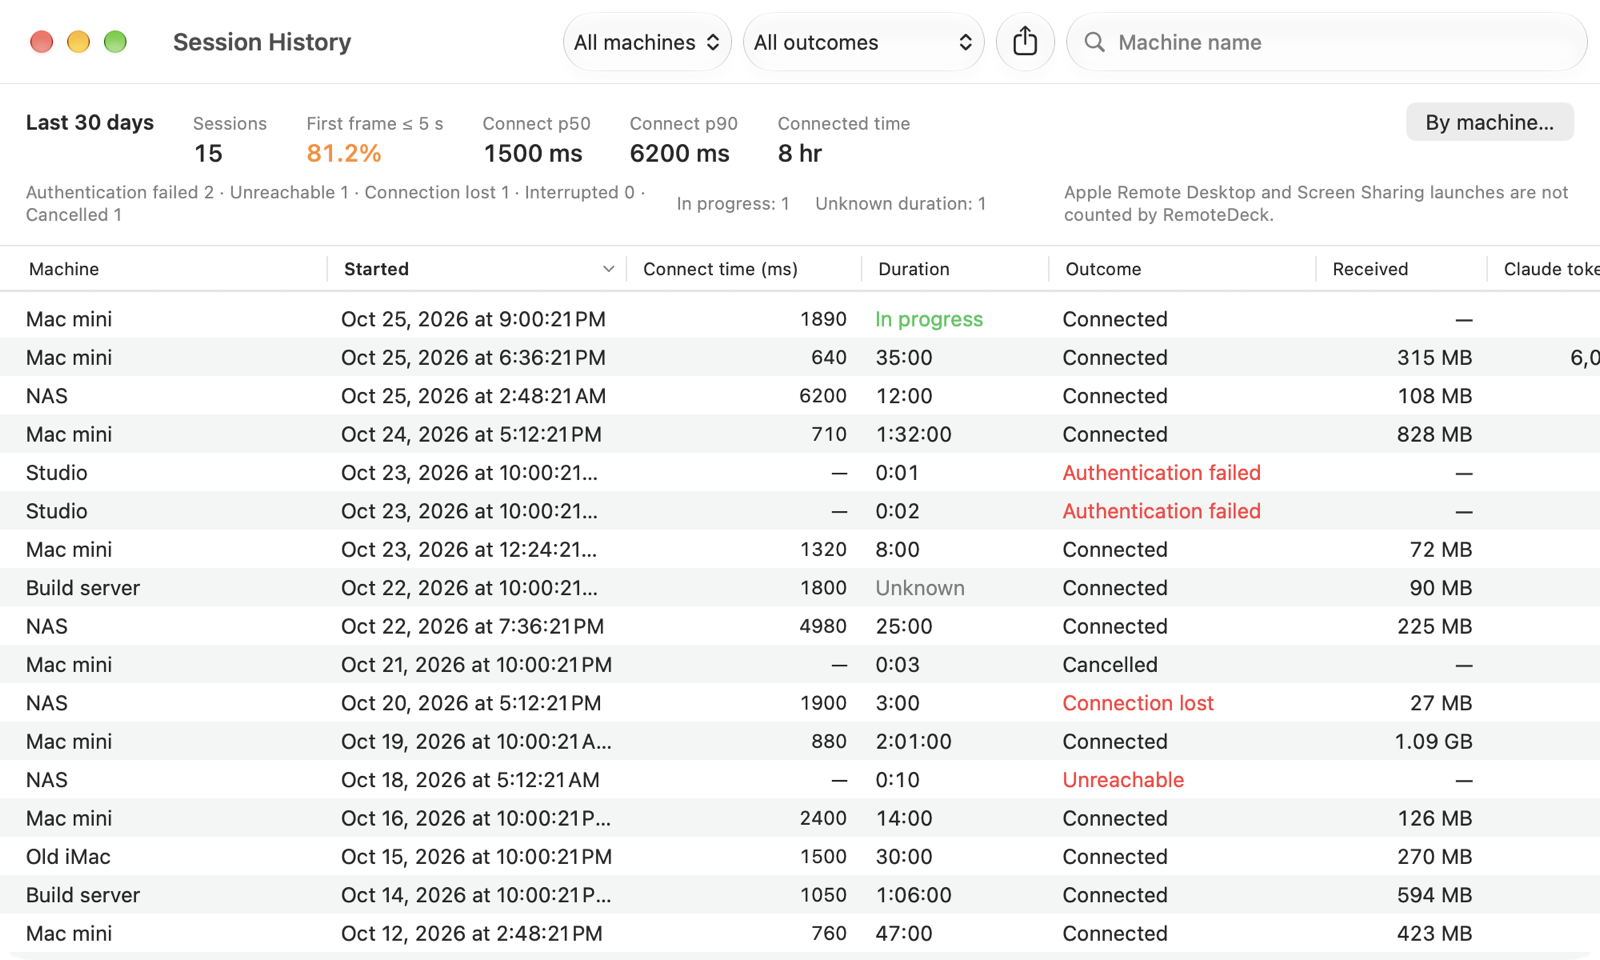
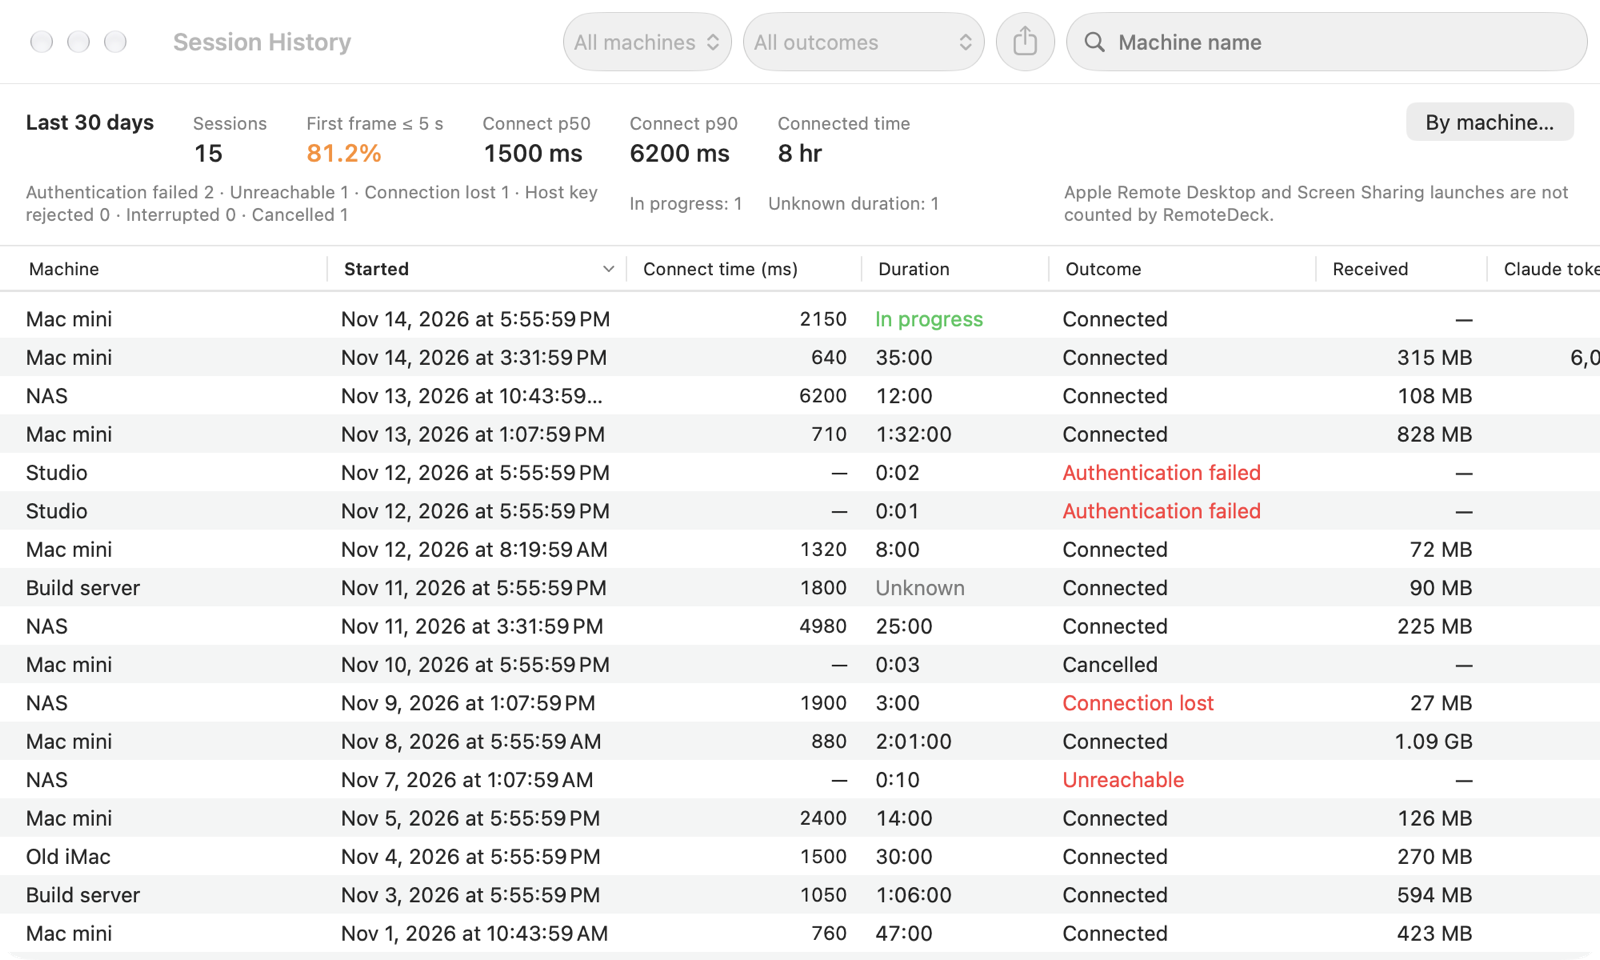
docs: refresh screenshots and describe SSH terminals on the landing page (#44)
New Terminal Assistant capture, Machine Library with an SSH machine, Session History with current dates; README and landing text cover terminal sessions and both assistant models.

diff --git a/docs/index.html b/docs/index.html
@@ -141,7 +141,7 @@
     <div>
       <span class="pill">🖥 <span class="en"><b>Macs</b>, <b>VNC</b>, <b>Claude computer use</b> and <b>SSH</b></span><span class="fr"><b>Mac</b>, <b>VNC</b>, <b>Claude computer use</b> et <b>SSH</b></span></span>
       <h1><span class="en">Every remote screen,<br><span class="grad">one native Mac app.</span></span><span class="fr">Tous vos écrans distants,<br><span class="grad">une seule app Mac native.</span></span></h1>
-      <p class="sub"><span class="en">RemoteDeck opens screen sessions on your Macs (Apple Remote Desktop / Screen Sharing), on VNC desktops and on Anthropic computer use environments — from one Machine Library, in tabs, with your passwords in the Keychain.</span><span class="fr">RemoteDeck ouvre des sessions d'écran sur vos Mac (Apple Remote Desktop / Partage d'écran), sur des bureaux VNC et sur les environnements Anthropic computer use — depuis une seule bibliothèque de machines, en onglets, avec vos mots de passe dans le Trousseau.</span></p>
+      <p class="sub"><span class="en">RemoteDeck opens screen sessions on your Macs (Apple Remote Desktop / Screen Sharing), on VNC desktops and on Anthropic computer use environments, and terminal sessions on your SSH machines — from one Machine Library, in tabs, with your passwords in the Keychain.</span><span class="fr">RemoteDeck ouvre des sessions d'écran sur vos Mac (Apple Remote Desktop / Partage d'écran), sur des bureaux VNC et sur les environnements Anthropic computer use, et des sessions terminal sur vos machines SSH — depuis une seule bibliothèque de machines, en onglets, avec vos mots de passe dans le Trousseau.</span></p>
       <div class="cta">
         <a class="btn btn-primary" href="https://github.com/vincentlauriat/RemoteDeck/releases/latest"><span class="en">Download</span><span class="fr">Télécharger</span></a>
         <a class="btn btn-ghost" href="https://github.com/vincentlauriat/RemoteDeck"><span class="en">View on GitHub</span><span class="fr">Voir sur GitHub</span></a>
@@ -198,13 +198,14 @@
     <h2><span class="en">A closer look</span><span class="fr">De plus près</span></h2>
   </div>
   <div class="gallery">
+    <figure><img src="assets/terminal-assistant.png" width="1600" height="1000" loading="lazy" alt="An SSH terminal tab on a demo Raspberry Pi showing df -h, with the Terminal Assistant panel explaining the full disk and proposing the command du -sh /var/log/* behind Confirm and Skip buttons"><figcaption><span class="en"><b>Terminal Assistant</b> — it reads the SSH terminal and proposes one command, typed only after Confirm.</span><span class="fr"><b>Assistant du terminal</b> — il lit le terminal SSH et propose une commande, tapée seulement après votre confirmation.</span></figcaption></figure>
     <figure><img src="assets/session.png" width="1600" height="1000" loading="lazy" alt="A Session Window with three tabs (Mac mini, NAS, Studio) on demo machines, showing a synthetic test pattern and the 'Keyboard captured' indicator"><figcaption><span class="en"><b>Session Tabs</b> — three sessions in one window, keyboard captured.</span><span class="fr"><b>Onglets de session</b> — trois sessions dans une fenêtre, clavier capturé.</span></figcaption></figure>
-    <figure><img src="assets/library.png" width="1440" height="960" loading="lazy" alt="The Machine Library window: favorites, groups and machines in the sidebar"><figcaption><span class="en"><b>Machine Library</b> — groups, favorites and search.</span><span class="fr"><b>Bibliothèque de machines</b> — groupes, favoris et recherche.</span></figcaption></figure>
+    <figure><img src="assets/library.png" width="1440" height="960" loading="lazy" alt="The Machine Library window: favorites, groups, Macs, a NAS, an SSH machine and a computer use environment in the sidebar"><figcaption><span class="en"><b>Machine Library</b> — Macs, VNC, SSH and computer use side by side.</span><span class="fr"><b>Bibliothèque de machines</b> — Mac, VNC, SSH et computer use côte à côte.</span></figcaption></figure>
     <figure><img src="assets/editor.png" width="1440" height="960" loading="lazy" alt="The Machine Editor sheet with connection, library and session settings"><figcaption><span class="en"><b>Machine Editor</b> — kind, host, credentials, Test connection.</span><span class="fr"><b>Éditeur de machine</b> — type, hôte, identifiants, test de connexion.</span></figcaption></figure>
     <figure><img src="assets/history.png" width="1600" height="960" loading="lazy" alt="The Session History window with its 30-day summary and the list of sessions"><figcaption><span class="en"><b>Session History</b> — every session, a 30-day summary, CSV export.</span><span class="fr"><b>Historique des sessions</b> — chaque session, un résumé sur 30 jours, export CSV.</span></figcaption></figure>
     <figure><img src="assets/whats-new.png" width="1200" height="979" loading="lazy" alt="The What's New window listing release notes"><figcaption><span class="en"><b>What's New</b> — release notes read from GitHub, rendered natively.</span><span class="fr"><b>Nouveautés</b> — les notes de version lues sur GitHub, rendues nativement.</span></figcaption></figure>
   </div>
-  <p class="note"><span class="en">Window captures from the Debug build's demo mode: sample machines, a synthetic test pattern and sample release notes, no real host.</span><span class="fr">Captures de fenêtres dans le mode démo du build Debug : machines d'exemple, mire synthétique et notes de version d'exemple, aucun hôte réel.</span></p>
+  <p class="note"><span class="en">Window captures from the Debug build's demo mode: sample machines, a synthetic test pattern, a scripted shell and assistant, and sample release notes, no real host.</span><span class="fr">Captures de fenêtres dans le mode démo du build Debug : machines d'exemple, mire synthétique, shell et assistant scriptés, et notes de version d'exemple, aucun hôte réel.</span></p>
 </div></section>
 
 <section id="privacy"><div class="wrap">

diff --git a/README.md b/README.md
@@ -4,7 +4,7 @@
 
 **A native macOS client for every remote screen you use.**
 
-Macs over Apple Remote Desktop / Screen Sharing, VNC desktops, Anthropic computer use environments and SSH terminals, from one window, with saved credentials, tabs, and an optional Claude Assistant that acts on the remote screen one confirmed action at a time.
+Macs over Apple Remote Desktop / Screen Sharing, VNC desktops, Anthropic computer use environments and SSH terminals, from one window, with saved credentials, tabs, and an optional assistant (Claude, or Apple's on-device model) that acts on the remote screen or in the terminal one confirmed action at a time.
 
 [![Platform](https://img.shields.io/badge/platform-macOS%2015%2B-blue.svg)](https://www.apple.com/macos)
 [![Release](https://img.shields.io/github/v/release/vincentlauriat/RemoteDeck?color=brightgreen)](https://github.com/vincentlauriat/RemoteDeck/releases/latest)
@@ -17,13 +17,15 @@ Macs over Apple Remote Desktop / Screen Sharing, VNC desktops, Anthropic compute
 
 ![The desktop of Anthropic's computer use reference container, a real frame decoded by RemoteDeck's RFBKit (rfb-probe)](docs/assets/computer-use.png)
 
-*A real frame from Anthropic's computer use reference container, decoded by RFBKit. Below: a Session Window with three tabs in the Debug demo mode (synthetic test pattern).*
+*A real frame from Anthropic's computer use reference container, decoded by RFBKit. Below: a Session Window with three tabs in the Debug demo mode (synthetic test pattern), then an SSH terminal tab with the Terminal Assistant proposing a command (demo mode: a scripted shell and a scripted assistant).*
 
 ![A Session Window with three tabs on demo machines, showing the synthetic test pattern of the -LibraryDemo session mode](docs/assets/session.png)
 
+![An SSH terminal tab on a demo Raspberry Pi showing df -h, with the Terminal Assistant panel explaining the full disk and proposing du -sh /var/log/* behind Confirm and Skip](docs/assets/terminal-assistant.png)
+
 ## Why
 
-Reaching a remote Mac usually means juggling Apple Remote Desktop (heavy, built for fleet management) and the built-in Screen Sharing app (no machine library, no tabs), and Anthropic computer use desktops need yet another VNC client or a browser page. RemoteDeck is one fast, keyboard-friendly app for all of them: a Machine Library with credentials in the Keychain, sessions in tabs, Bonjour discovery on the LAN, and nothing of ARD's fleet management.
+Reaching a remote Mac usually means juggling Apple Remote Desktop (heavy, built for fleet management) and the built-in Screen Sharing app (no machine library, no tabs), Anthropic computer use desktops need yet another VNC client or a browser page, and Linux servers live in a separate terminal app. RemoteDeck is one fast, keyboard-friendly app for all of them: a Machine Library with credentials in the Keychain, screen and terminal sessions in tabs, Bonjour discovery on the LAN, and nothing of ARD's fleet management.
 
 It is a native SwiftUI + AppKit app with its own RFB/VNC protocol library (Apple Diffie-Hellman authentication, Raw, CopyRect, ZRLE and Tight decoding) and a Metal-backed framebuffer, sandboxed and notarized.
 
@@ -50,7 +52,7 @@ It is a native SwiftUI + AppKit app with its own RFB/VNC protocol library (Apple
 | 📖 **In-app Help & What's New** | Help (`⌘?`) and *What's New…* read this README and the release notes live from GitHub and render them natively (no web view) |
 | 🚀 **Updates** | Sparkle 2, EdDSA-signed, from this repository's GitHub Releases |
 
-![The Machine Library window on the sample library of the -LibraryDemo list mode](docs/assets/library.png)
+![The Machine Library window on the demo sample library: Macs, a NAS, an SSH machine (Raspberry) and a computer use environment](docs/assets/library.png)
 
 ## Install
 
